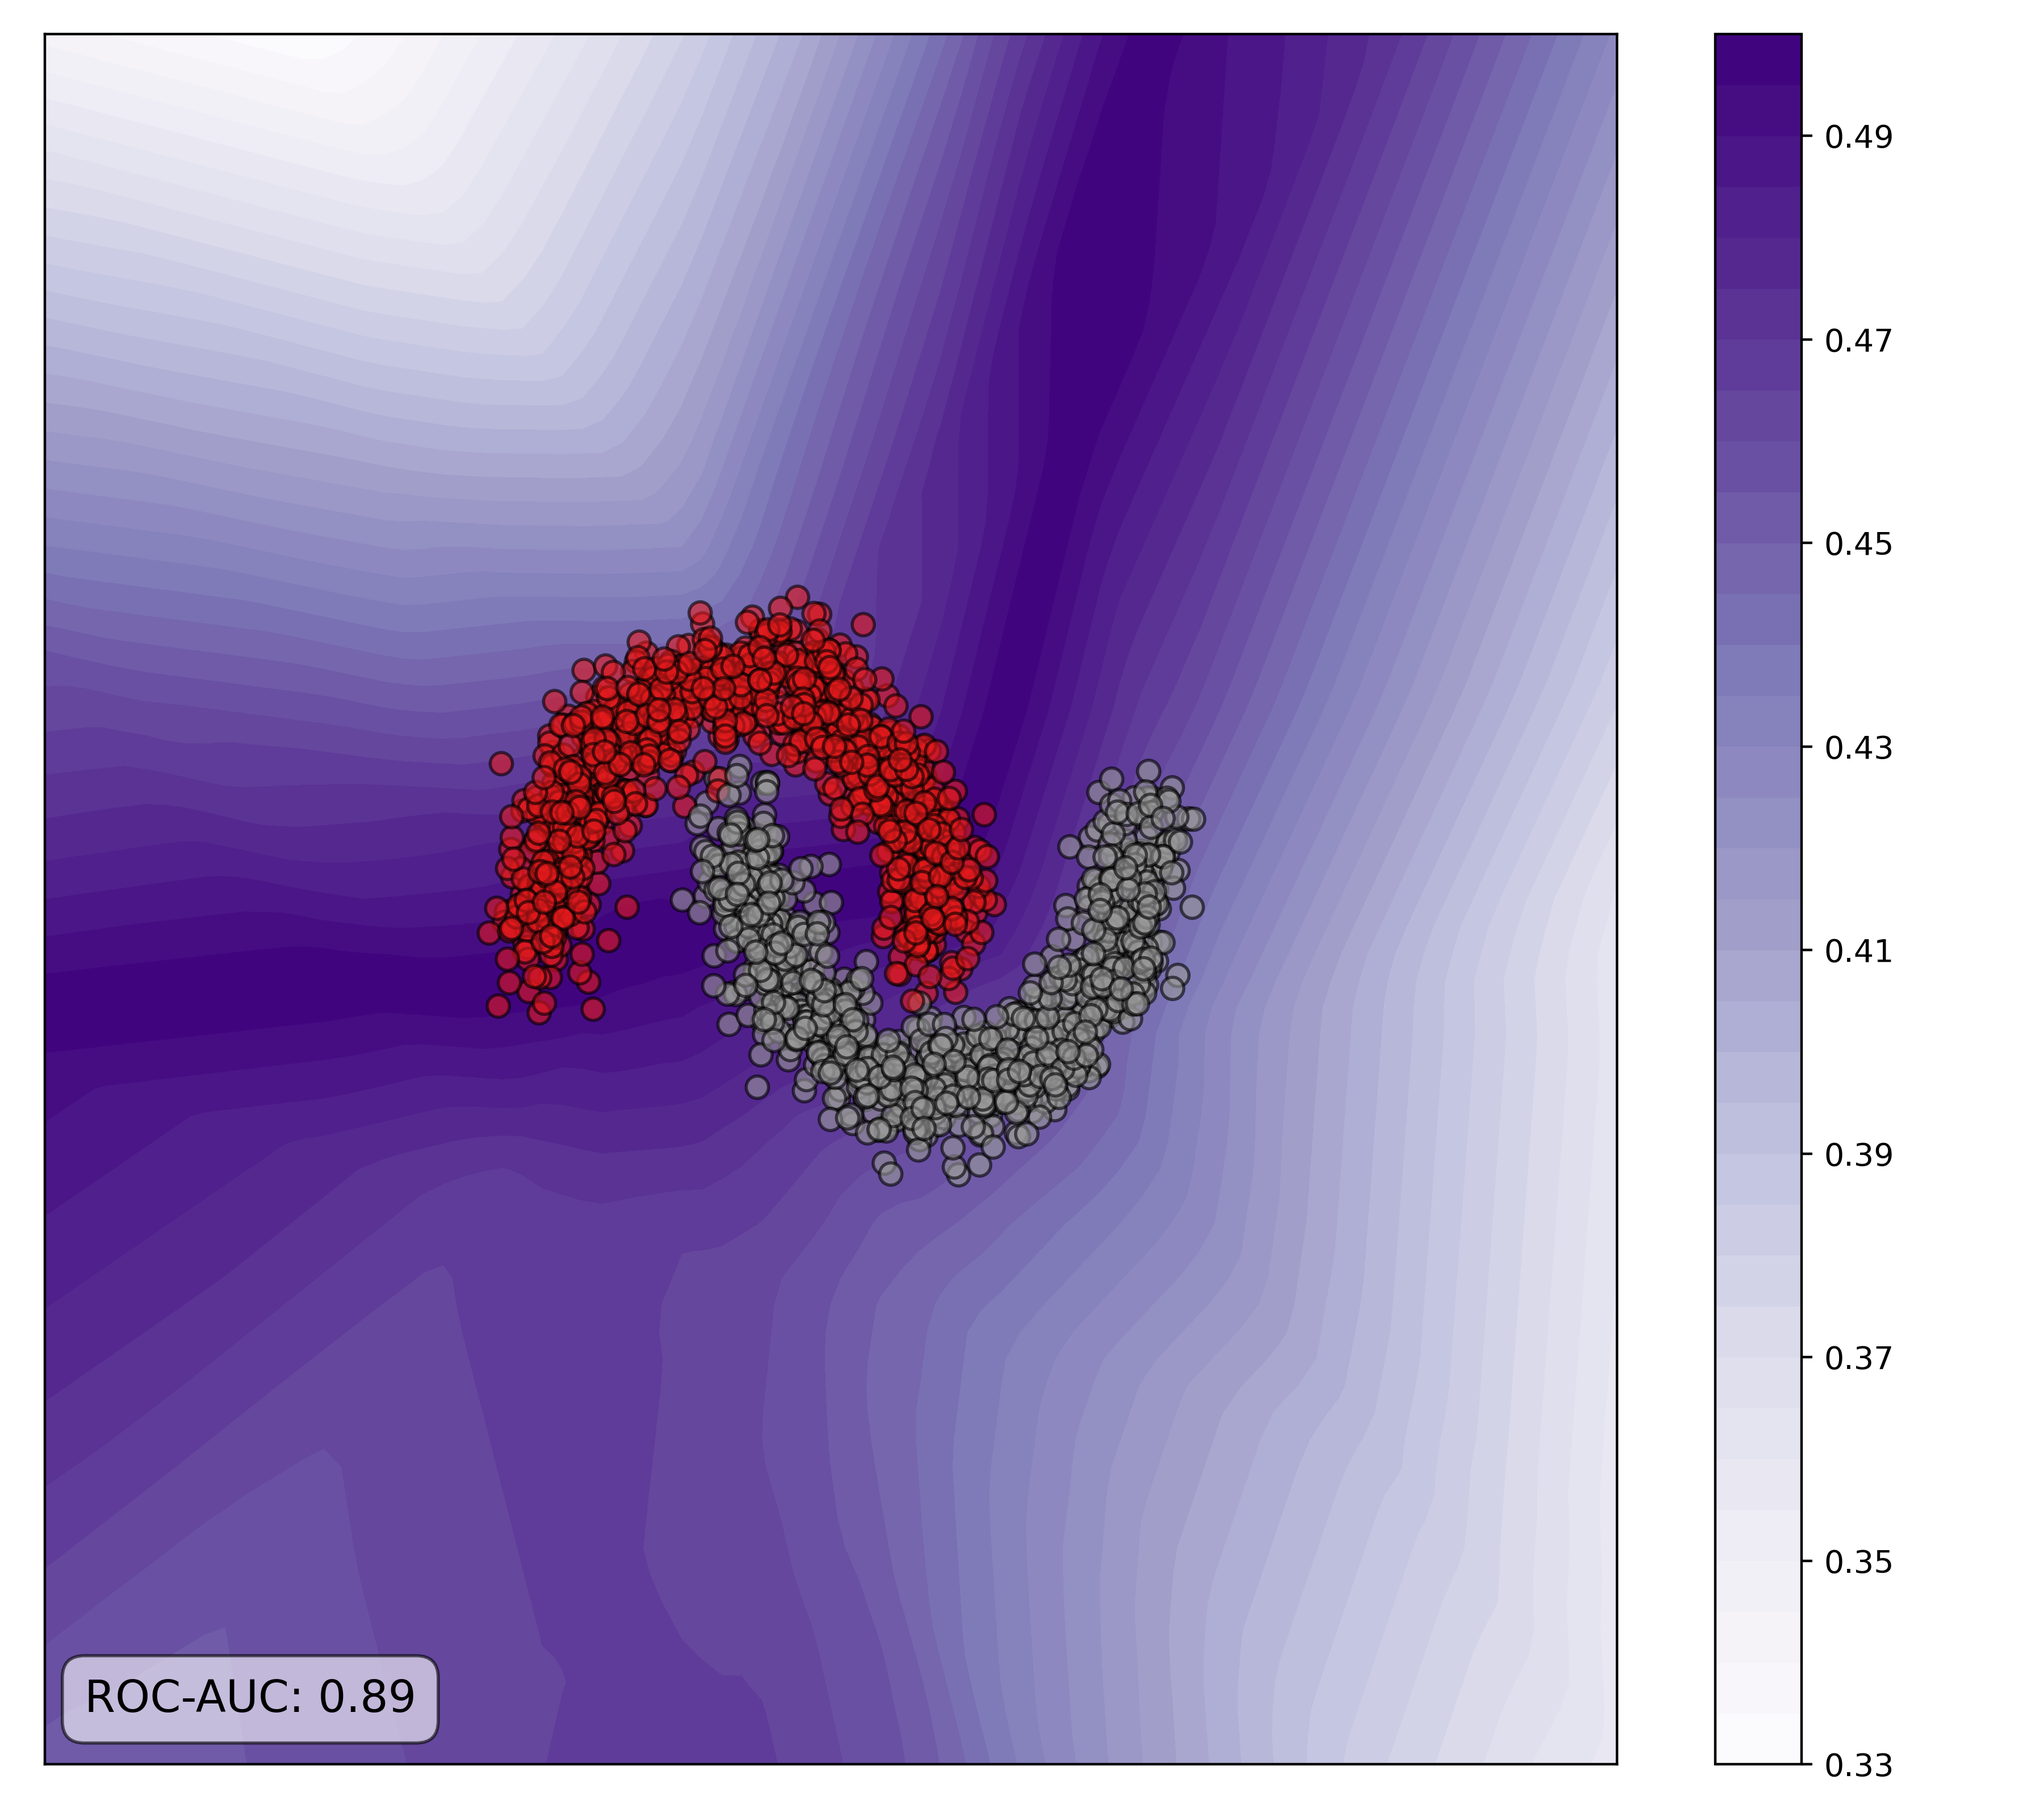
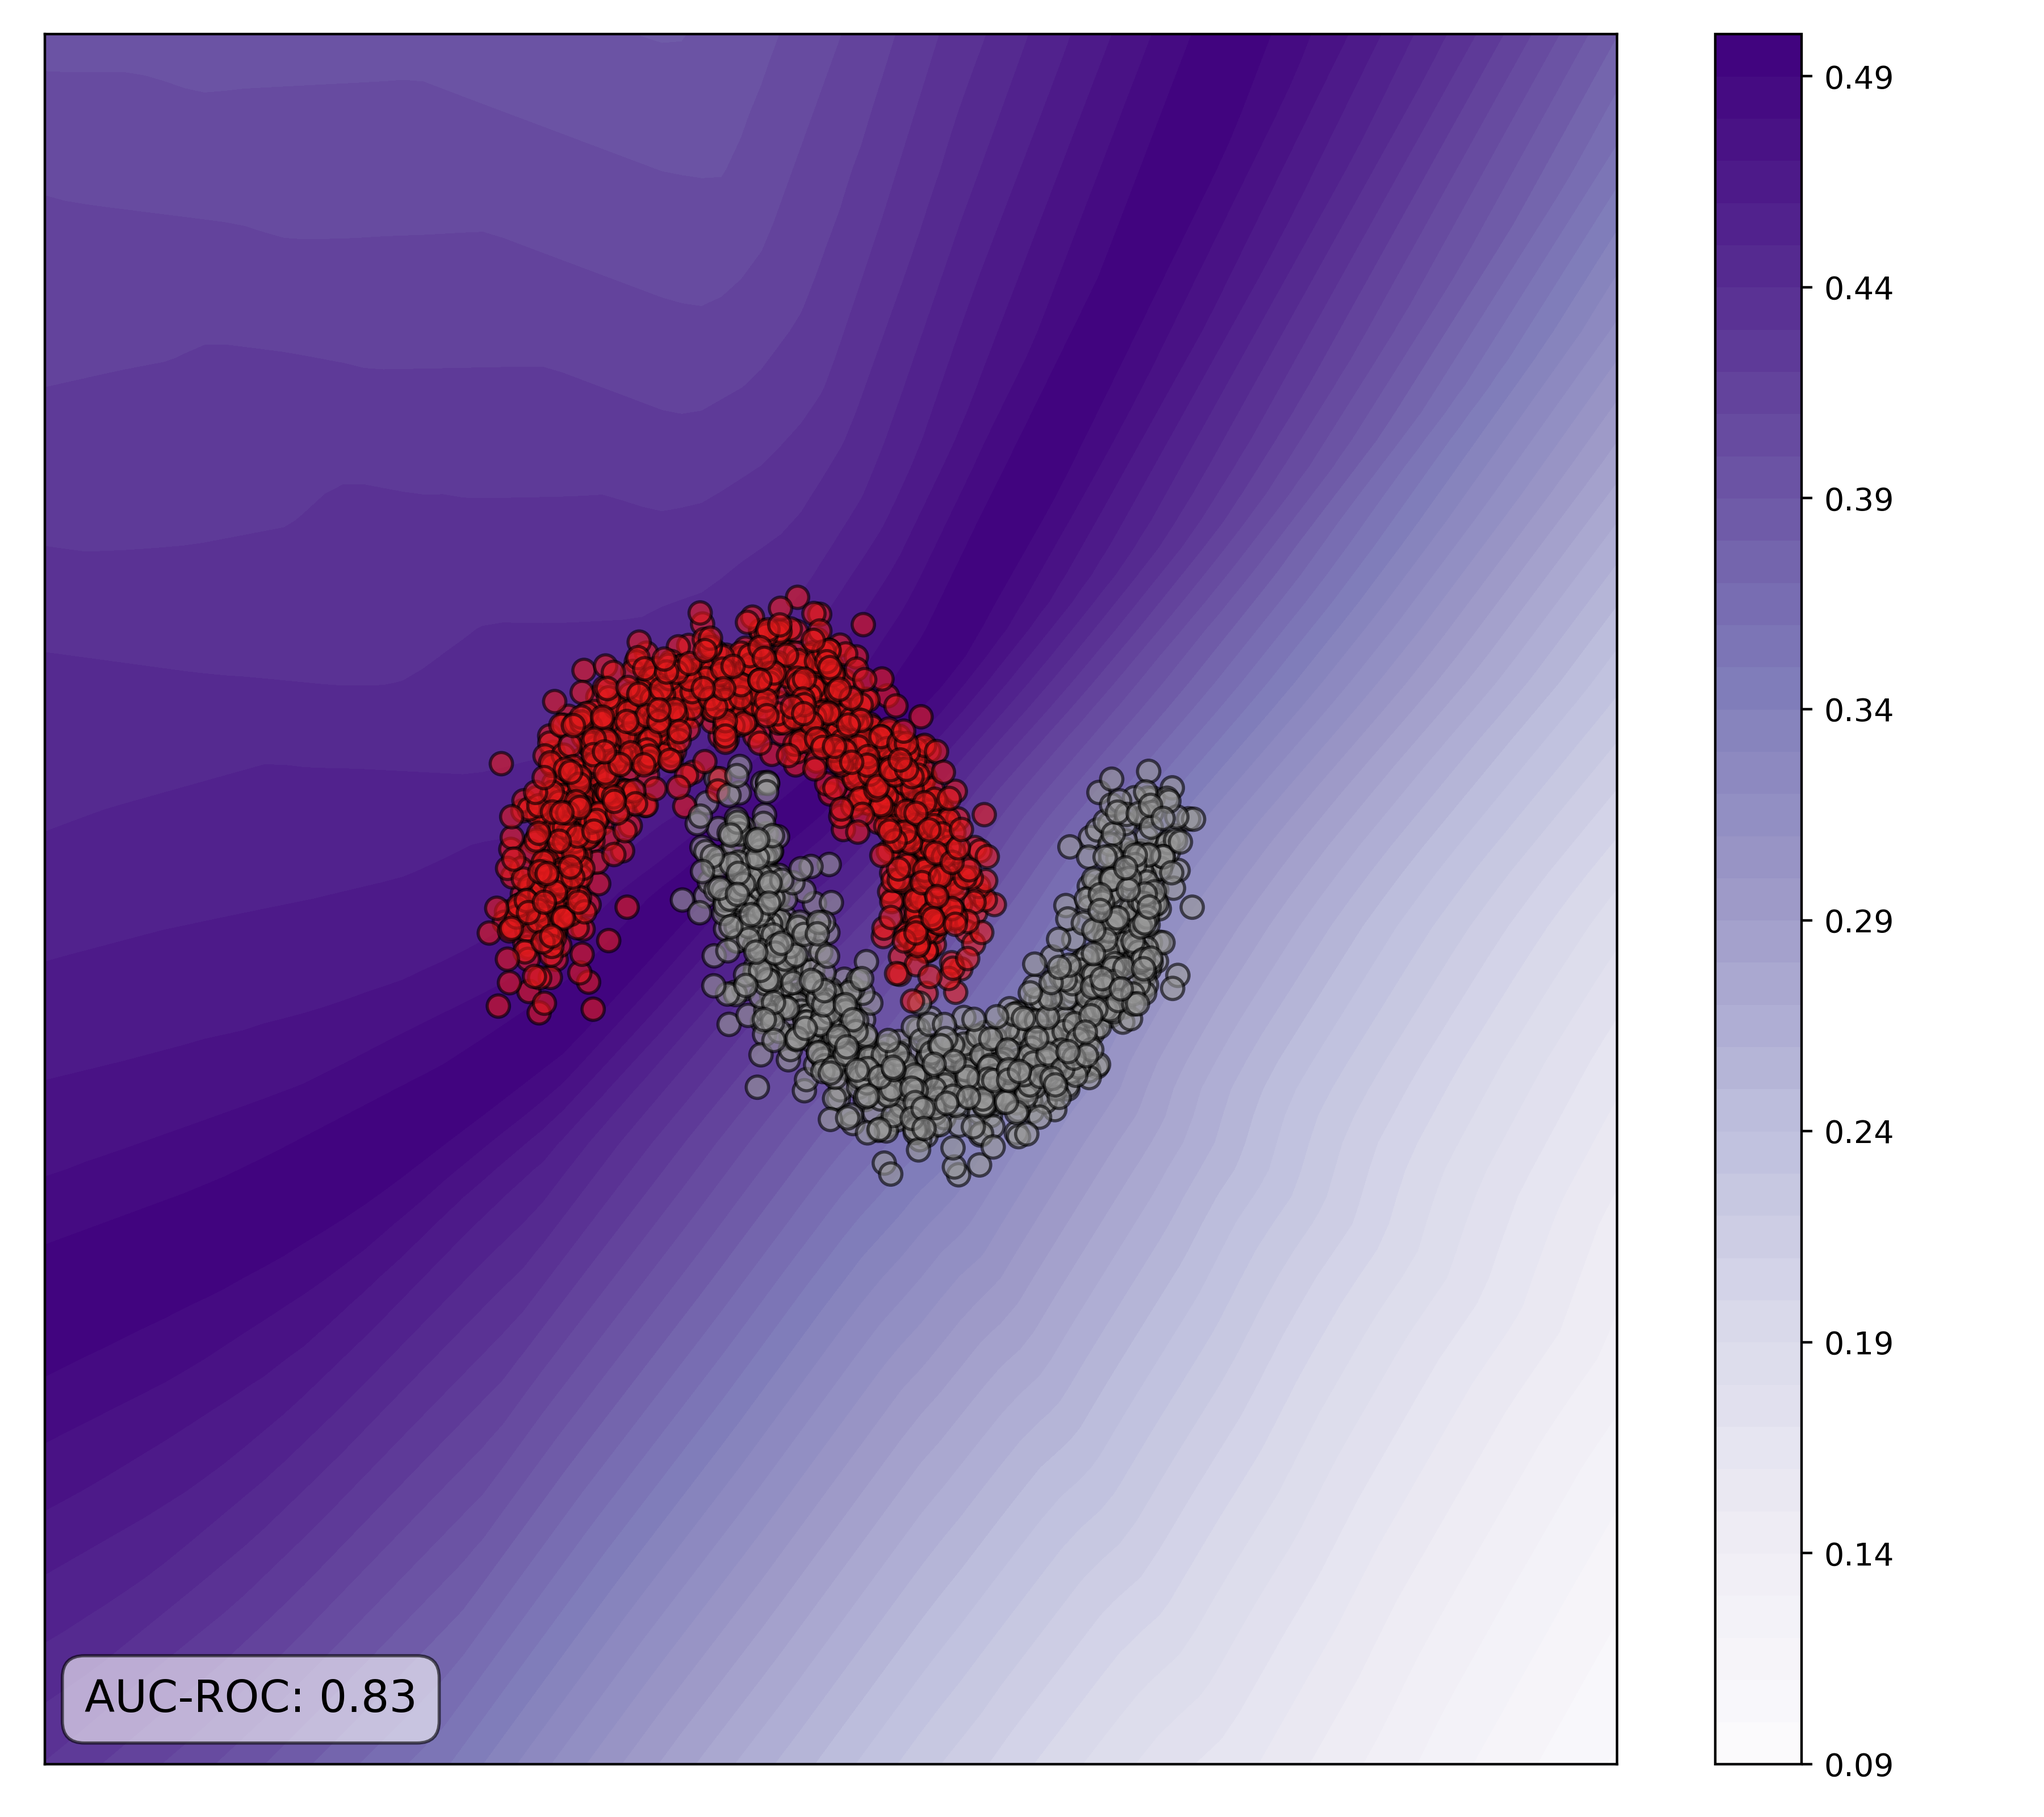
:sparkles: Another round of images

diff --git a/create_plots.py b/create_plots.py
@@ -67,7 +67,7 @@ def plot_scores(
         ax.text(
             0.025,
             0.025,
-            f"ROC-AUC: {add_roc_auc:.2f}",
+            f"AUC-ROC: {add_roc_auc:.2f}",
             horizontalalignment="left",
             verticalalignment="bottom",
             transform=ax.transAxes,
